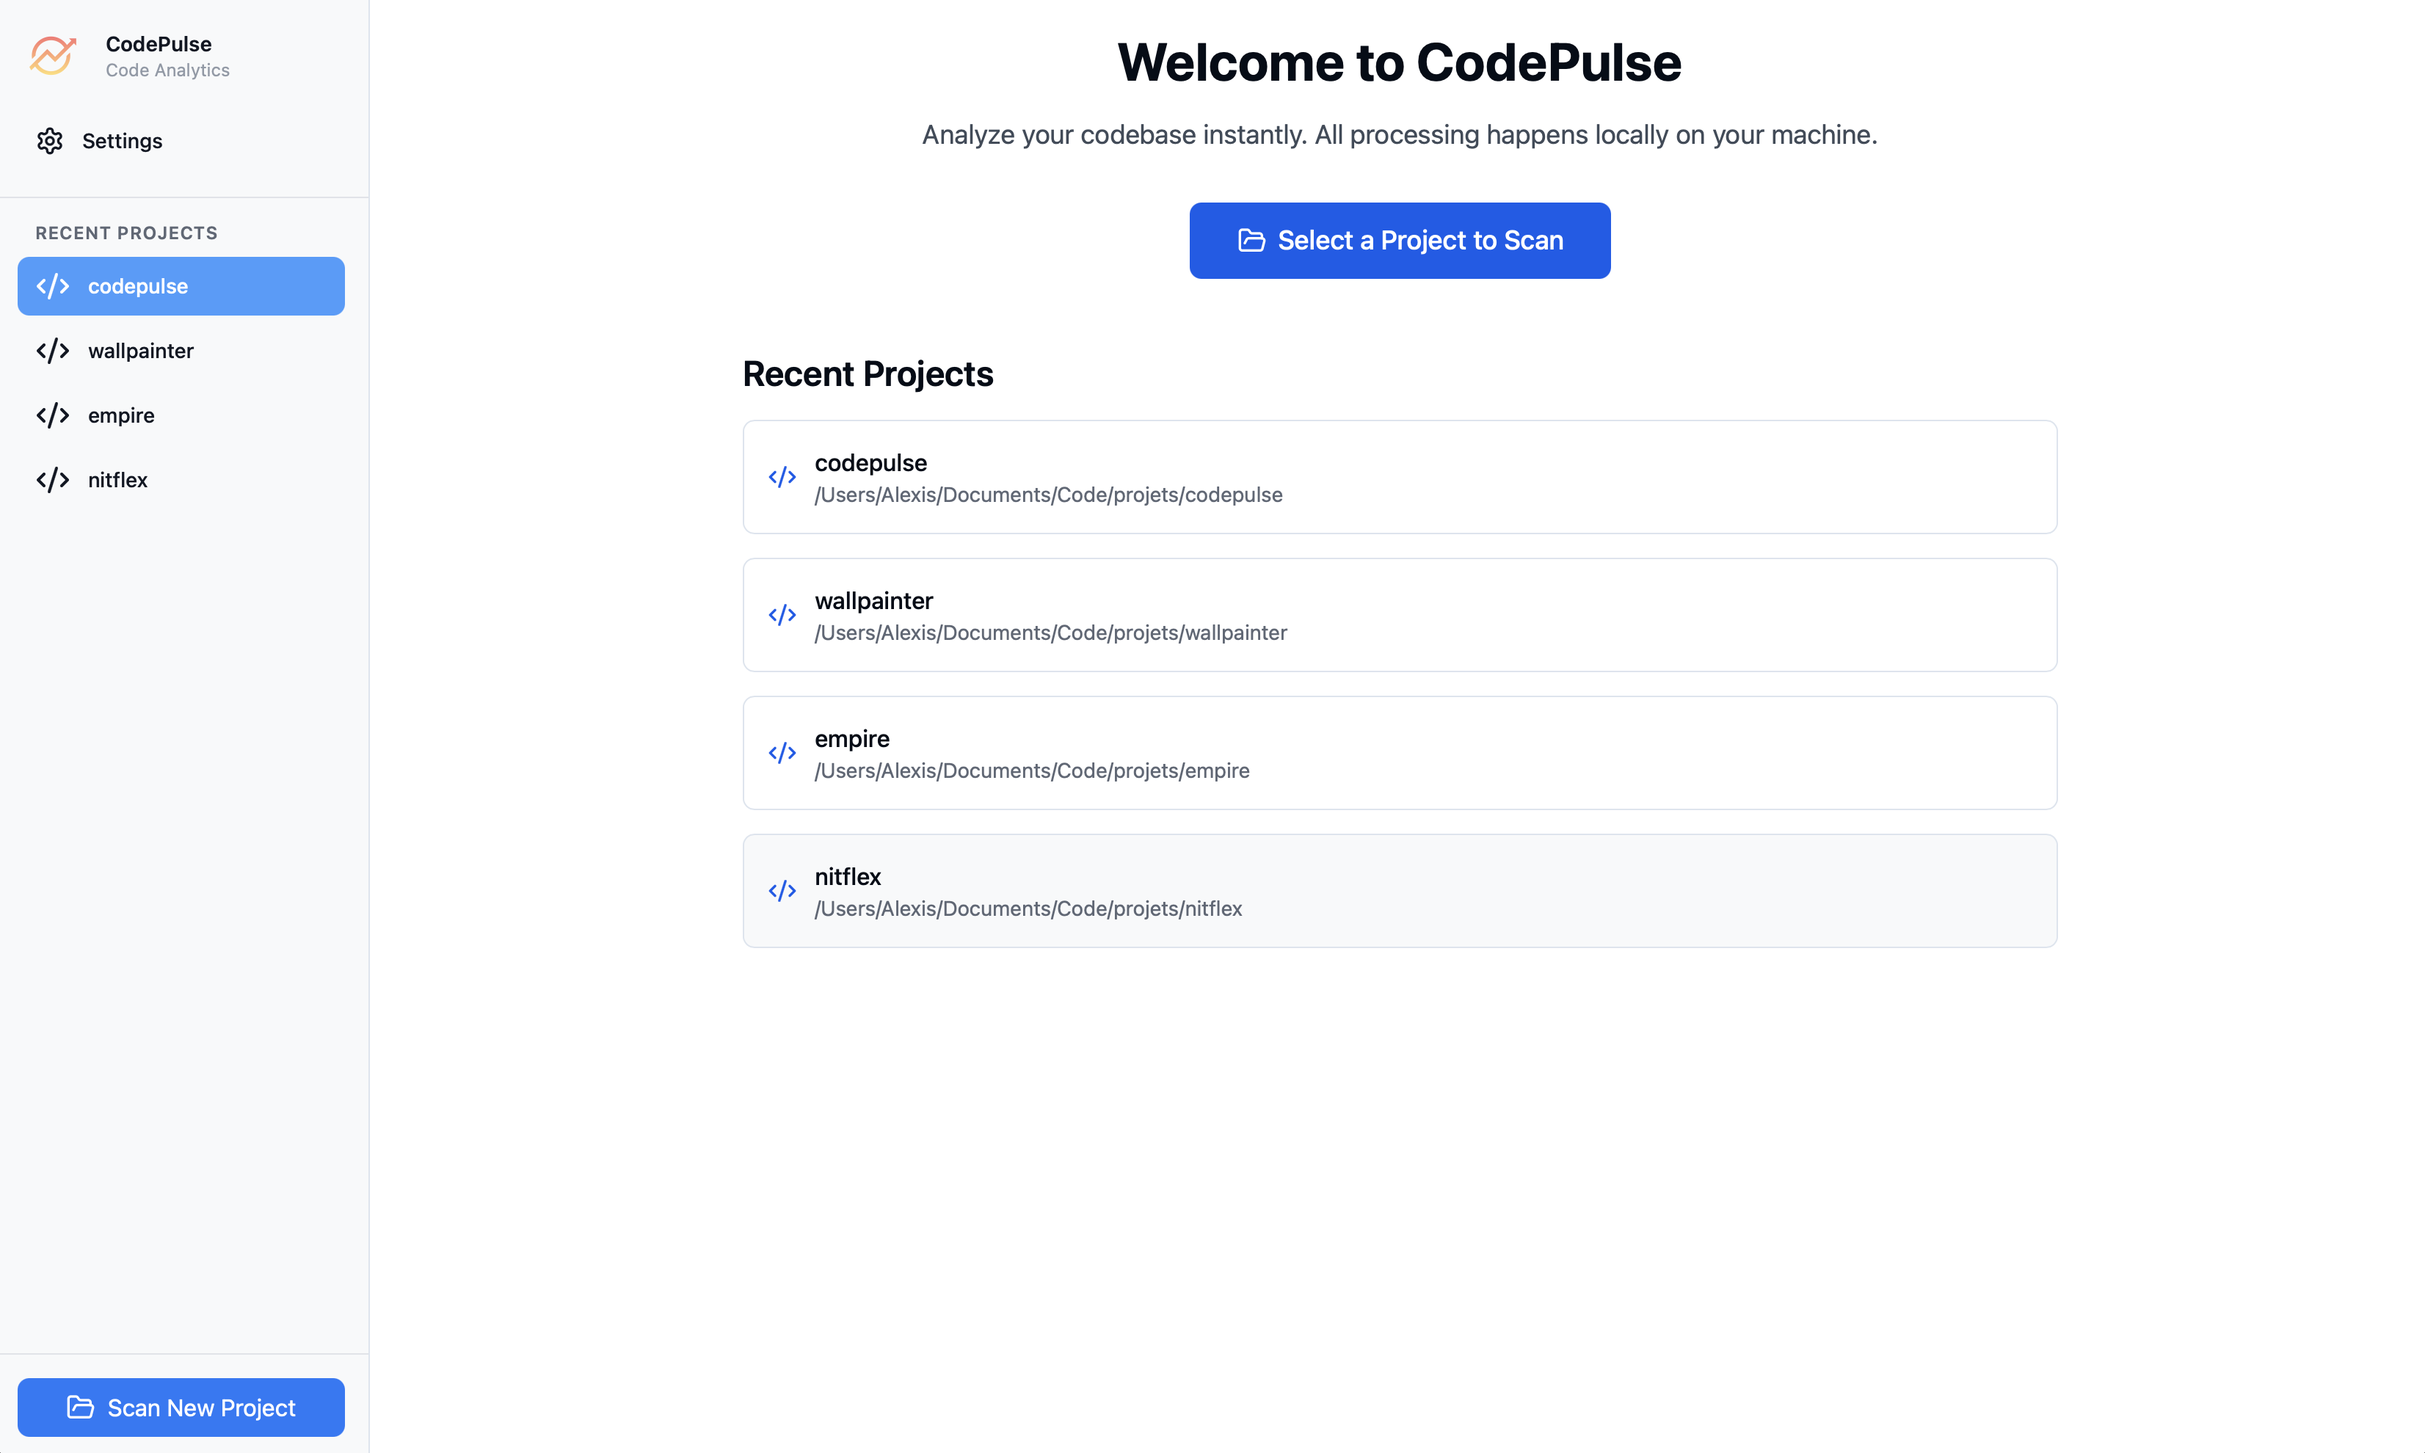
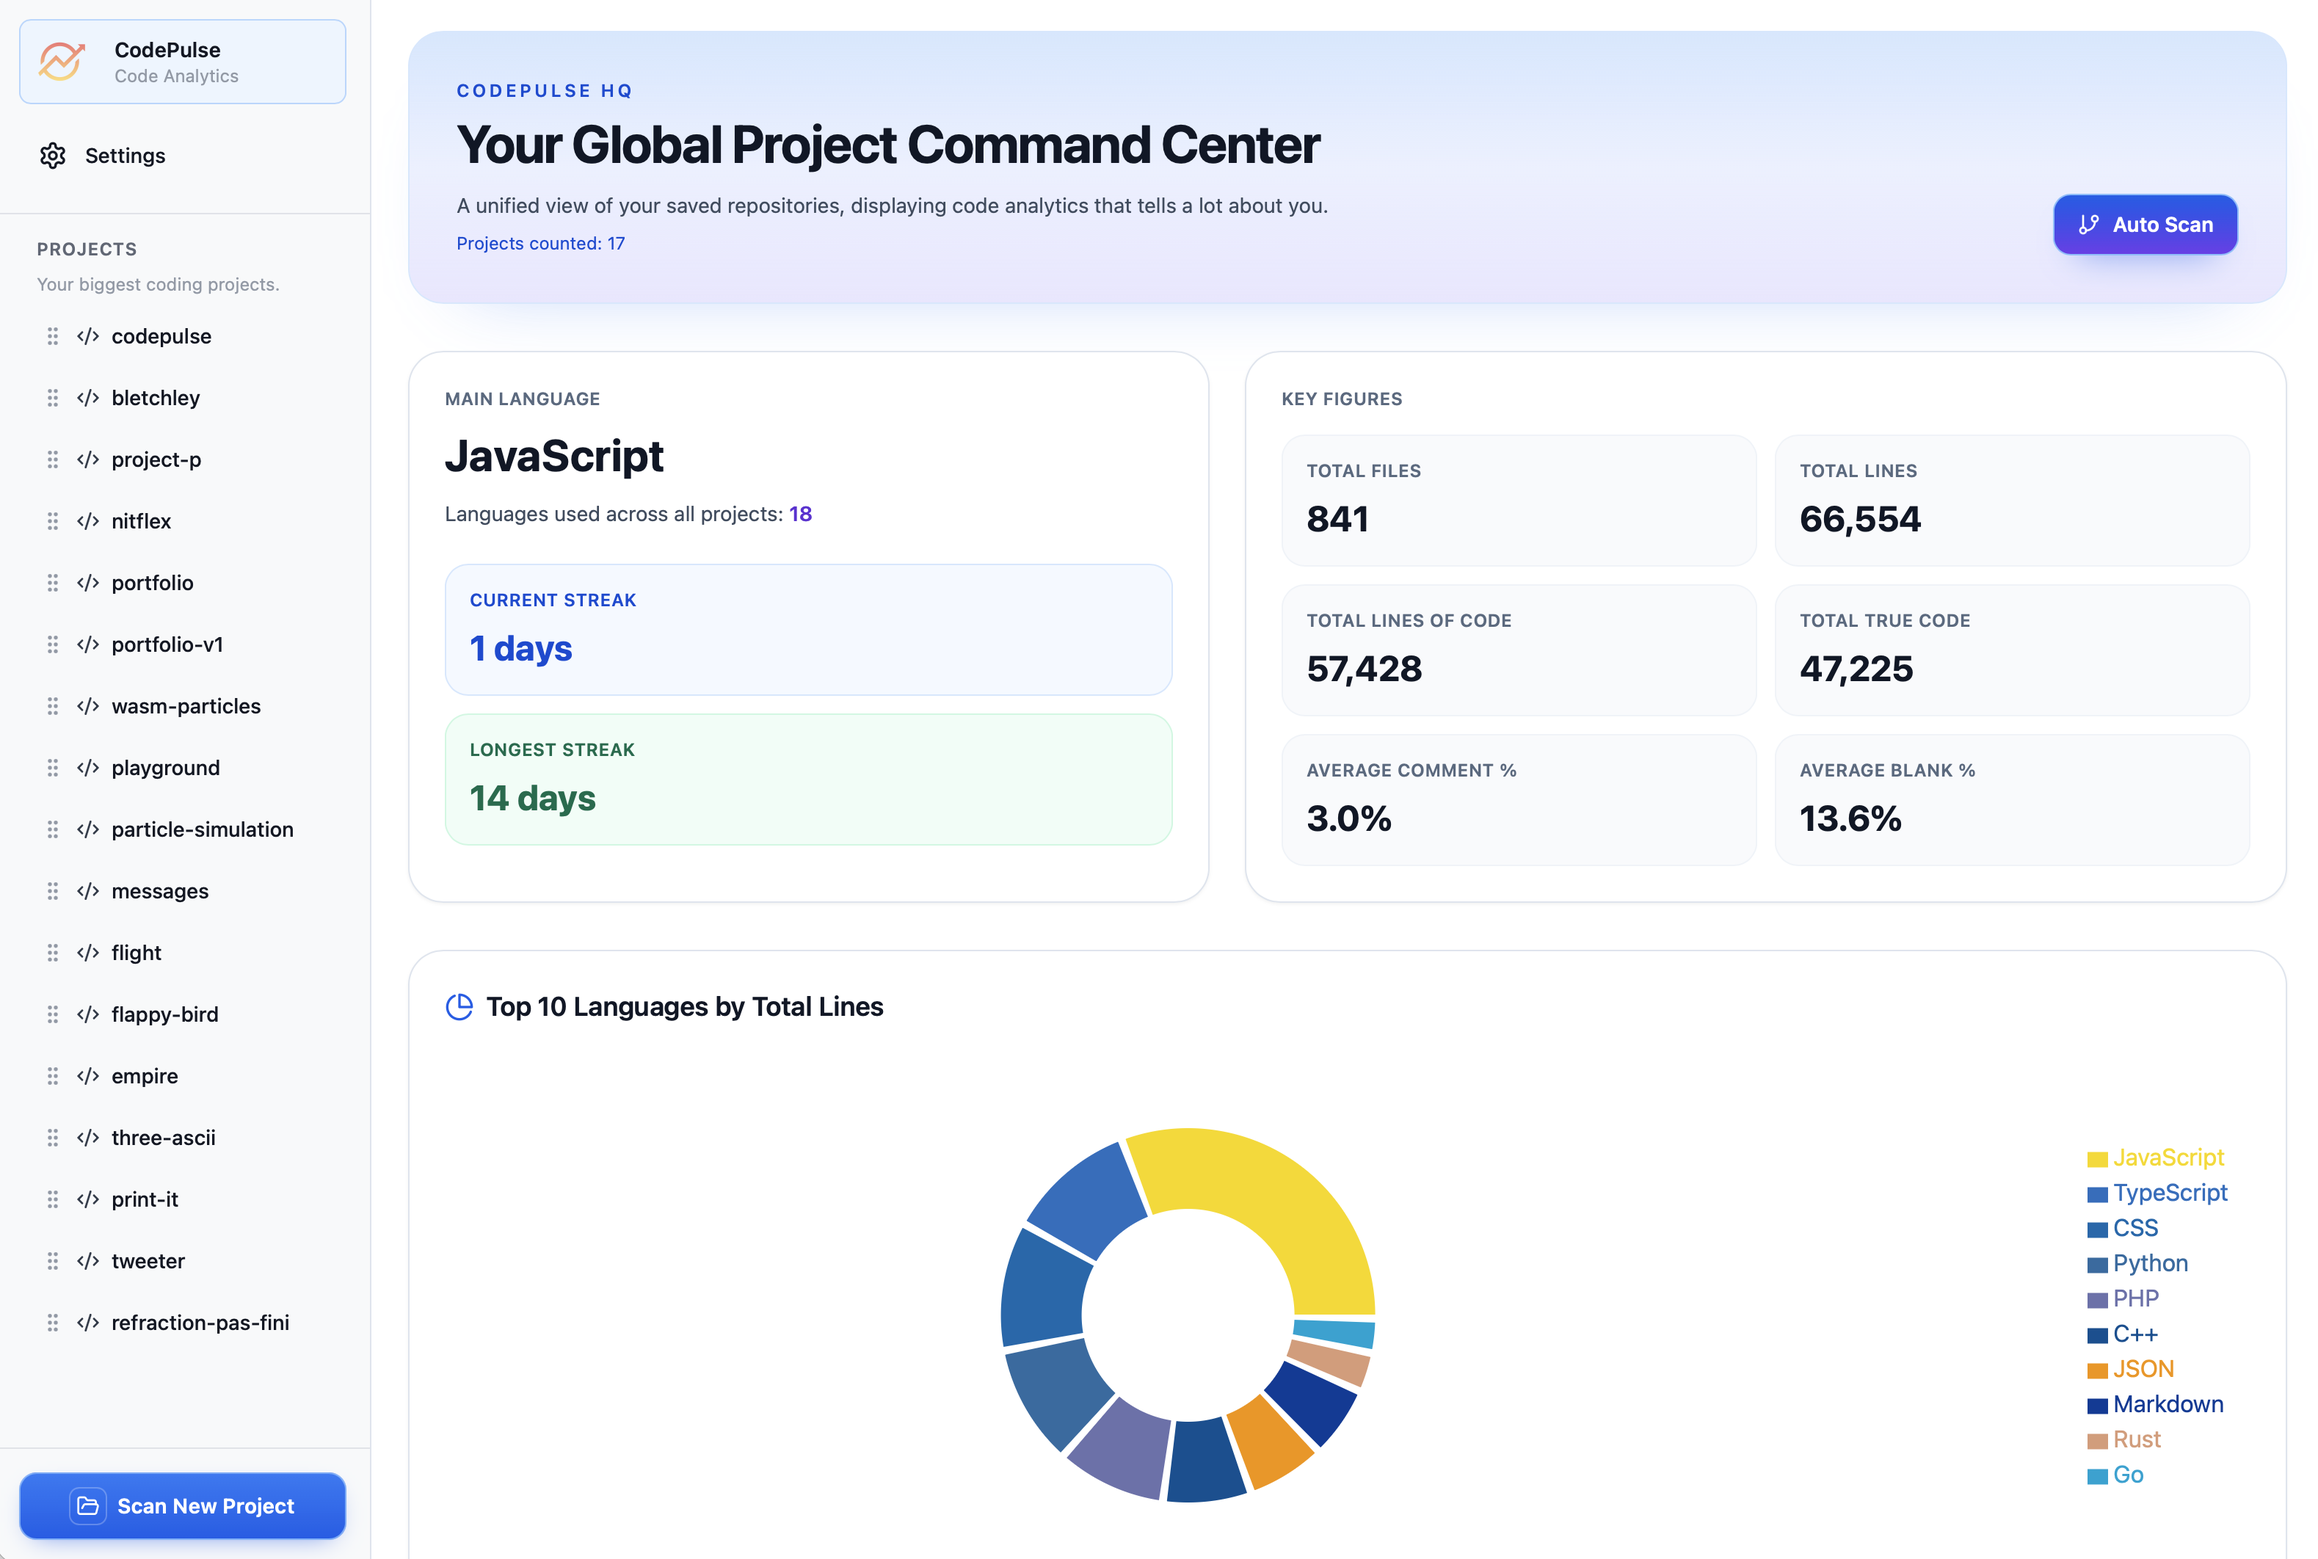
Update README and Get more SEO

diff --git a/web/index.php b/web/index.php
@@ -20,6 +20,13 @@ $canonical = $scheme . '://' . $host . ($_SERVER['REQUEST_URI'] ?? '/');
 		<meta name="theme-color" content="#eaf6ff">
 		<link rel="canonical" href="<?= htmlspecialchars($canonical, ENT_QUOTES, 'UTF-8') ?>">
 
+		<link rel="icon" type="image/png" href="/favicon-96x96.png?v=20260402" sizes="96x96" />
+		<link rel="icon" type="image/svg+xml" href="/favicon.svg?v=20260402" />
+		<link rel="shortcut icon" href="/favicon.ico?v=20260402" />
+		<link rel="apple-touch-icon" sizes="180x180" href="/apple-touch-icon.png?v=20260402" />
+		<meta name="apple-mobile-web-app-title" content="Codepulse" />
+		<link rel="manifest" href="/site.webmanifest?v=20260402" />
+
 		<meta property="og:type" content="website">
 		<meta property="og:site_name" content="CodePulse">
 		<meta property="og:title" content="CodePulse | Beautiful Code Analytics for Fast-Moving Teams">

diff --git a/README.md b/README.md
@@ -1,30 +1,25 @@
 # CodePulse
 
-CodePulse is a cross-platform desktop application that analyzes your codebase and provides detailed statistics, visualizations, and insights — all while keeping your code completely private and offline.
+CodePulse is a cross-platform desktop application that analyzes your codebase and provides detailed statistics, visualizations, and insights. It helps developers and teams understand their project's health, track code quality, and monitor contributor activity over time.
 
-# ✨ Features
-
-- 🚀 **Lightning Fast**: Rust-powered backend scans thousands of files in seconds
-- 🔒 **Privacy First**: All analysis happens locally—your code never leaves your machine
-- 📊 **Rich Insights**: Detailed stats, interactive charts, and breakdowns by language
-- 💾 **Export**: Save results as CSV, JSON, HTML or even Markdown!
-- 🌍 **Cross-Platform**: Works on macOS, Windows, and Linux
-
-# 🚀 Quick Start
+## 🚀 Quick Start
 
 You can run the following commands to easily run the application on your computer :
 
+Clone and setup
 ```bash
-# Clone and setup
 git clone https://github.com/AdlarX9/codepulse.git
+```
+```bash
 cd code-pulse
+```
+```bash
 ./codepulse.sh setup
+```
 
-# Launch desktop app
+Launch desktop app
+```bash
 ./codepulse.sh desktop
-
-# Or launch web app
-./codepulse.sh web
 ```
 
 # Examples
